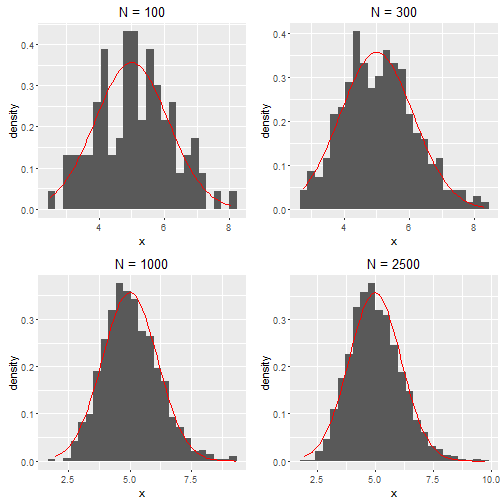
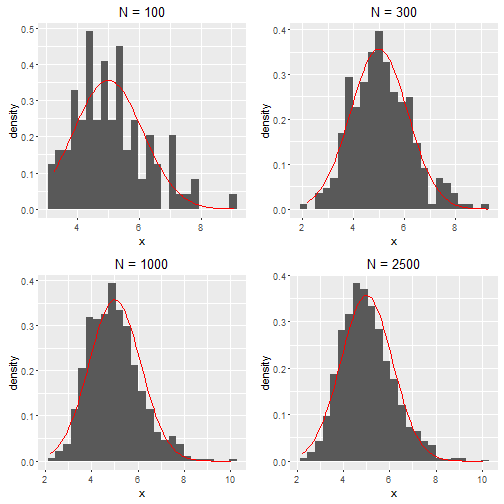
update files

diff --git a/presentation.md b/presentation.md
@@ -1,7 +1,7 @@
 Shiny Application and Reproducible Pitch: Distribution of the mean of the exponential distribution
 ========================================================
 author: Pedro Jesus 
-date: Wed Sep 14 18:04:31 2016
+date: Wed Sep 14 19:03:05 2016
 autosize: true
 
 Overview
@@ -9,9 +9,13 @@ Overview
 
 Show the Central Limit Theorem in action for the exponential distribution.
 
-Presentation is being created as part of the peer assessment for the Coursera Developing Data Products.
+Presentation is part of the peer assessment for the Coursera Developing Data Products.
 
-App was build using shiny:
+App was build using shiny: https://pjesus7.shinyapps.io/CLTApp/
+- One tab has the interface
+- Another tab describes what the app does
+
+The code for the app is in the following github url: https://github.com/PJesus7/CourseraShinyApp
 
 This presentation is made on RStudio Presenter.
 
@@ -29,5 +33,9 @@ Take $\lambda = 0.2$, $N = 20$.
 
 ![plot of chunk unnamed-chunk-1](presentation-figure/unnamed-chunk-1-1.png)
 
-Histogram evolution
+Conclusion
 ========================================================
+
+From the histograms and the plot of the theoretical normal distribution (red line) we see that the histogram approaches the line as N increases.
+
+With these graphics it is much easier to show how the CLT works instead of just writing formulas.
